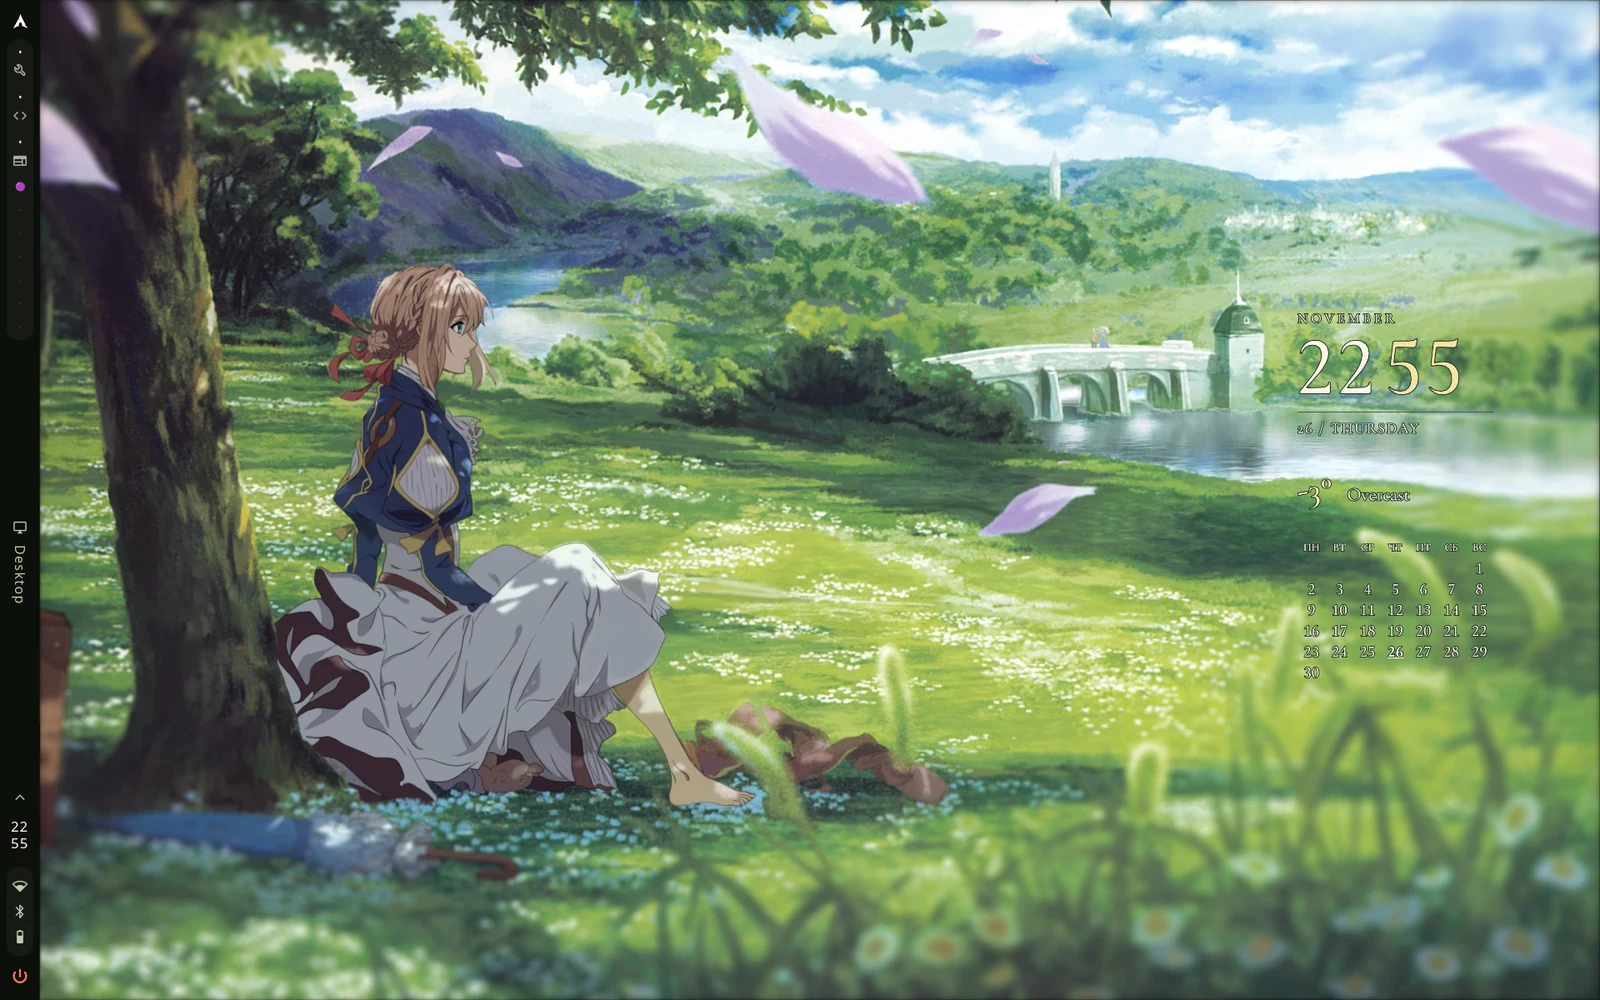
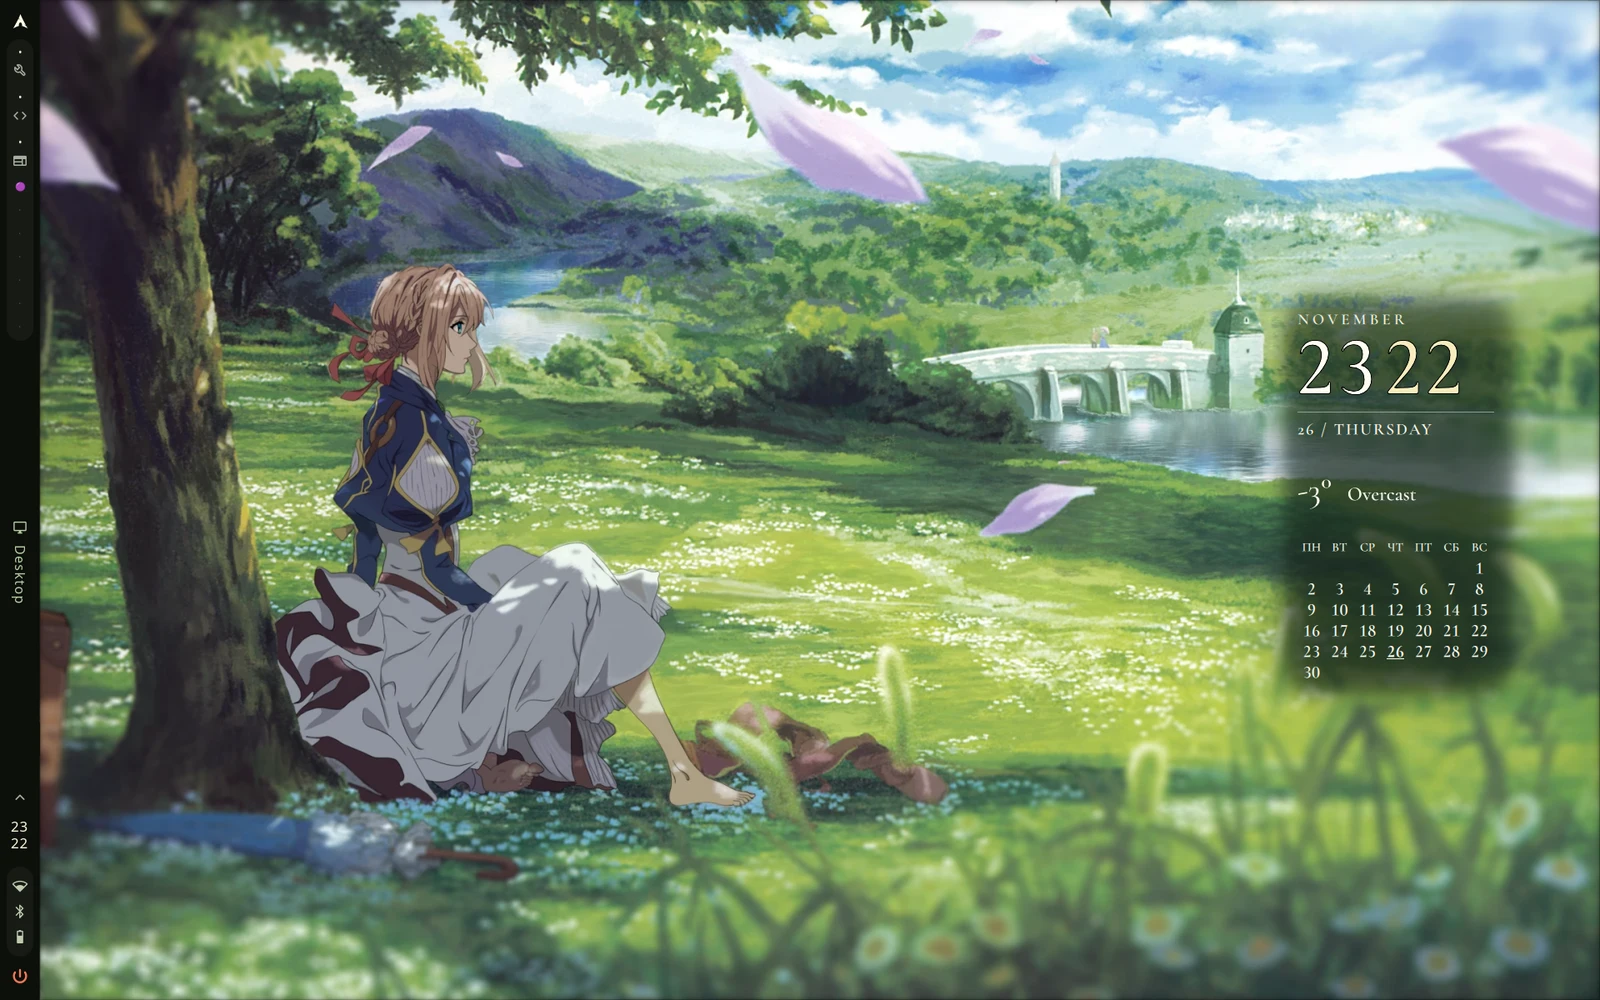
Refresh the desktop, Kitty and Yazi previews

Changed region(s): [[0.7812, 0.279, 0.9688, 0.713]]

diff --git a/dotfiles/.config/quickshell/ambxst-clock/shell.qml b/dotfiles/.config/quickshell/ambxst-clock/shell.qml
@@ -1,5 +1,6 @@
 pragma ComponentBehavior: Bound
 import QtQuick
+import QtQuick.Effects
 import Quickshell
 import Quickshell.Wayland
 import Quickshell.Io
@@ -16,9 +17,10 @@ ShellRoot {
             line: "#A69B89", date: "#5C5349", weather: "#51483E"
         },
         "evergarden-serenity.webp": {
-            time: "#FFF8E5", accent: "#F6E4A7", muted: "#E6ECCD",
-            line: "#475B3C", date: "#F5F2DC", weather: "#FFF2C1",
-            outline: "#1E2D23"
+            time: "#FFFDF2", accent: "#F8ECBE", muted: "#F2F6E6",
+            line: "#88A38B", date: "#FFFDF2", weather: "#FFFDF2",
+            clockOutline: "#000000", smallTextBoost: 2, smallTextWeight: Font.DemiBold,
+            backdrop: { top: "#B01A291F", bottom: "#D4122119" }
         },
         "mai-lilac-morning.webp": {
             time: "#291733", accent: "#42284B", muted: "#37243F",
@@ -108,6 +110,38 @@ ShellRoot {
                 y: Math.max(8, Math.min(372, desktop.height - height * scale - 8))
                 transformOrigin: Item.TopLeft
 
+                Rectangle {
+                    id: backdropSource
+
+                    visible: false
+                    x: -14
+                    y: -14
+                    width: parent.width + 28
+                    height: (nowPlaying.visible ? nowPlaying.y + nowPlaying.height
+                                                : calendar.y + calendar.height) + 28
+                    radius: 38
+
+                    gradient: Gradient {
+                        GradientStop {
+                            position: 0
+                            color: desktopShell.widgetColors.backdrop?.top ?? "transparent"
+                        }
+                        GradientStop {
+                            position: 1
+                            color: desktopShell.widgetColors.backdrop?.bottom ?? "transparent"
+                        }
+                    }
+                }
+
+                MultiEffect {
+                    visible: !!desktopShell.widgetColors.backdrop
+                    source: backdropSource
+                    anchors.fill: backdropSource
+                    blurEnabled: true
+                    blurMax: 56
+                    blur: 1
+                }
+
                 ClockWidget {
                     now: desktopTime.date
                     widgetColors: desktopShell.widgetColors
@@ -123,6 +157,8 @@ ShellRoot {
                 }
 
                 CalendarWidget {
+                    id: calendar
+
                     today: desktopTime.date
                     widgetColors: desktopShell.widgetColors
                     x: 3
@@ -132,6 +168,8 @@ ShellRoot {
                 }
 
                 NowPlayingWidget {
+                    id: nowPlaying
+
                     widgetColors: desktopShell.widgetColors
                     y: 462
                     width: parent.width

diff --git a/dotfiles/.config/quickshell/ambxst-clock/ClockWidget.qml b/dotfiles/.config/quickshell/ambxst-clock/ClockWidget.qml
@@ -7,6 +7,8 @@ Item {
     required property date now
     required property var widgetColors
 
+    readonly property color digitOutline: widgetColors.clockOutline ?? widgetColors.outline ?? "transparent"
+
     Item {
         id: design
 
@@ -30,7 +32,8 @@ Item {
             styleColor: root.widgetColors.outline ?? "transparent"
 
             font.family: "Cormorant Garamond"
-            font.pixelSize: 16
+            font.pixelSize: 16 + (root.widgetColors.smallTextBoost ?? 0)
+            font.weight: root.widgetColors.smallTextWeight ?? Font.Normal
             font.letterSpacing: 4
         }
 
@@ -42,8 +45,8 @@ Item {
             Text {
                 text: Qt.formatDateTime(root.now, "HH")
                 color: root.widgetColors.time
-                style: root.widgetColors.outline ? Text.Outline : Text.Normal
-                styleColor: root.widgetColors.outline ?? "transparent"
+                style: root.digitOutline.a > 0 ? Text.Outline : Text.Normal
+                styleColor: root.digitOutline
 
                 font.family: "Cormorant Garamond"
                 font.pixelSize: 96
@@ -54,8 +57,8 @@ Item {
             Text {
                 text: Qt.formatDateTime(root.now, "mm")
                 color: root.widgetColors.accent
-                style: root.widgetColors.outline ? Text.Outline : Text.Normal
-                styleColor: root.widgetColors.outline ?? "transparent"
+                style: root.digitOutline.a > 0 ? Text.Outline : Text.Normal
+                styleColor: root.digitOutline
 
                 font.family: "Cormorant Garamond"
                 font.pixelSize: 96
@@ -85,7 +88,8 @@ Item {
             styleColor: root.widgetColors.outline ?? "transparent"
 
             font.family: "Cormorant Garamond"
-            font.pixelSize: 17
+            font.pixelSize: 17 + (root.widgetColors.smallTextBoost ?? 0)
+            font.weight: root.widgetColors.smallTextWeight ?? Font.Normal
             font.letterSpacing: 2
         }
     }

diff --git a/dotfiles/.config/quickshell/ambxst-clock/CalendarWidget.qml b/dotfiles/.config/quickshell/ambxst-clock/CalendarWidget.qml
@@ -39,8 +39,8 @@ Item {
                 styleColor: root.widgetColors.outline ?? "transparent"
 
                 font.family: "Cormorant Garamond"
-                font.pixelSize: header ? 13 : 19
-                font.weight: highlighted ? Font.Bold : Font.Medium
+                font.pixelSize: (header ? 13 : 19) + (root.widgetColors.smallTextBoost ?? 0)
+                font.weight: highlighted ? Font.Bold : (root.widgetColors.smallTextWeight ?? Font.Medium)
                 font.underline: highlighted
                 font.features: { "lnum": 1, "tnum": 1 }
             }

diff --git a/dotfiles/.config/quickshell/ambxst-clock/WeatherWidget.qml b/dotfiles/.config/quickshell/ambxst-clock/WeatherWidget.qml
@@ -38,7 +38,8 @@ Item {
             style: root.widgetColors.outline ? Text.Outline : Text.Normal
             styleColor: root.widgetColors.outline ?? "transparent"
             font.family: "Cormorant Garamond"
-            font.pixelSize: 21
+            font.pixelSize: 21 + (root.widgetColors.smallTextBoost ?? 0)
+            font.weight: root.widgetColors.smallTextWeight ?? Font.Normal
             elide: Text.ElideRight
         }
     }

diff --git a/dotfiles/.config/quickshell/ambxst-clock/NowPlayingWidget.qml b/dotfiles/.config/quickshell/ambxst-clock/NowPlayingWidget.qml
@@ -57,7 +57,8 @@ Item {
             styleColor: root.widgetColors.outline ?? "transparent"
             elide: Text.ElideRight
             font.family: "Cormorant Garamond"
-            font.pixelSize: 19
+            font.pixelSize: 19 + (root.widgetColors.smallTextBoost ?? 0)
+            font.weight: root.widgetColors.smallTextWeight ?? Font.Normal
         }
     }
 }

diff --git a/README.md b/README.md
@@ -5,7 +5,7 @@
 - **Hyprland** — Lua-конфиг с горячими клавишами, правилами окон, анимациями и автозапуском.
 - **Caelestia и Quickshell** — настройки оболочки, часы, календарь, погода и управление музыкой на рабочем столе.
 - **Violet** — тема экрана входа SDDM и переход к рабочему столу.
-- **Fish, Kitty и Yazi** — настройки оболочки, терминала и файлового менеджера.
+- **Fish, Kitty и Yazi** — палитра терминала и акценты файлового менеджера меняются вместе с темой Caelestia.
 
 ## Скриншоты
 
@@ -18,6 +18,18 @@
 
 </details>
 
+### Kitty
+
+Терминал с Fish и палитрой, подобранной по обоям.
+
+![Kitty с приветствием Fish и палитрой Caelestia](docs/screenshots/kitty.webp)
+
+### Yazi
+
+Тёмный полупрозрачный фон и акценты текущей темы. Отдельное окно открывается по **Super+Y**.
+
+![Yazi с деревом файлов и предпросмотром README](docs/screenshots/yazi.webp)
+
 [Все восемь обоев в оригинальном размере](dotfiles/Pictures/Wallpapers)
 
 ## Восстановление после переустановки
@@ -26,9 +38,9 @@
 
    ```bash
    sudo pacman -S --needed git python hyprland xdg-desktop-portal-hyprland \
-     xdg-desktop-portal-gtk pipewire wireplumber fish kitty yazi thunar \
+     xdg-desktop-portal-gtk pipewire wireplumber fish kitty yazi thunar fuzzel \
      wl-clipboard cliphist brightnessctl playerctl libnotify grim slurp \
-     gpu-screen-recorder ttf-jetbrains-mono-nerd ttf-material-symbols-variable
+     gpu-screen-recorder ttf-jetbrains-mono-nerd ttf-material-symbols-variable ttf-cormorant
    ```
 
 2. Установите пакеты Caelestia из AUR привычным способом. Окружение проверялось с Hyprland 0.57.2, Caelestia Shell 2.5.0, Caelestia CLI 1.1.3 и `quickshell-git` 0.3.2.r11. Виджеты используют файлы из `/etc/xdg/quickshell/caelestia`, которые ставит пакет `caelestia-shell`.
@@ -52,6 +64,8 @@
    ```bash
    caelestia shell wallpaper set "$HOME/Pictures/Wallpapers/evergarden-serenity.webp"
    ```
+
+   При смене обоев Caelestia обновляет цвета Kitty и Yazi. Шаблоны лежат в каталоге `~/.config/caelestia/templates/`.
 
 ## Экран входа Violet
 
